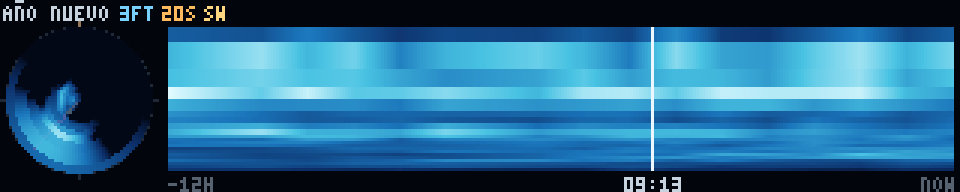
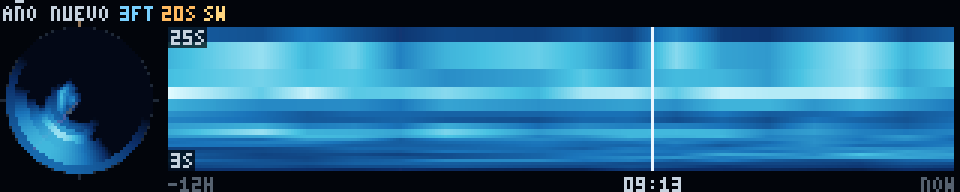
waverose: label the period axis with two ticks
The spectrogram's vertical axis is wave period; two dim chips -- long swell at
the top, short chop at the bottom -- name it in seconds without spending a full
axis, and double as the units legend. Refresh preview and screenshot.

Changed region(s): [[0.1562, 0.7812, 0.2188, 0.9062], [0.1562, 0.125, 0.2188, 0.25]]

diff --git a/demos/waverose.py b/demos/waverose.py
@@ -537,6 +537,20 @@ def build_spectrogram(frame, lay, state, lut, escale, hours_span):
         if x0 <= gx < x1:
             frame[y0:y1, gx] = np.maximum(frame[y0:y1, gx], np.array(C_GRID))
 
+    # Two ticks naming the vertical axis: it is wave period in seconds, long
+    # swell at the top and short chop at the bottom. A dimmed chip behind each
+    # keeps the light figures legible over whatever energy is under them, which
+    # is cheaper than a full axis and says both the unit and the range.
+    def _period_tick(yy, secs):
+        txt = "%dS" % int(secs + 0.5)
+        bw = text_width(txt)
+        chip = frame[yy:yy + 7, x0:x0 + bw + 2]
+        chip[:] = (chip.astype(np.float32) * 0.30).astype(np.uint8)
+        blit_text(frame, yy + 1, x0 + 1, txt, C_TEXT)
+    if sgh >= 16:
+        _period_tick(y0, T_MAX)
+        _period_tick(y1 - 7, T_MIN)
+
 
 def draw_card(frame, lay, lines):
     total = sum(text_height(sc) + 3 for _, _, sc in lines)
